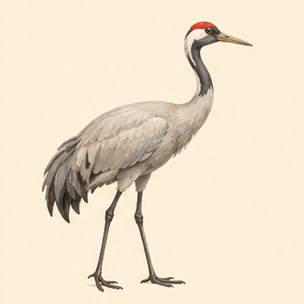
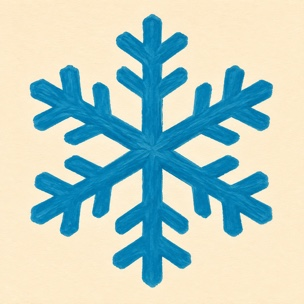
Заменить журавля на снежинку в картинках на Ж

diff --git a/game.js b/game.js
@@ -1,6 +1,6 @@
 "use strict";
 const el = id => document.getElementById(id);
-const words = {"z": ["Заяц", "Зонт", "Замок", "Забор", "Зуб", "Завод", "Коза", "Ваза", "Роза", "Берёза", "Медуза", "Стрекоза", "Изба", "Пазлы", "Глаза"], "zh": ["Жук", "Жаба", "Жираф", "Жилет", "Жёлудь", "Журавль", "Ежи", "Лыжи", "Ножи", "Пижама", "Лужа", "Пружина", "Моржи", "Медвежонок", "Баклажан"]};
+const words = {"z": ["Заяц", "Зонт", "Замок", "Забор", "Зуб", "Завод", "Коза", "Ваза", "Роза", "Берёза", "Медуза", "Стрекоза", "Изба", "Пазлы", "Глаза"], "zh": ["Жук", "Жаба", "Жираф", "Жилет", "Жёлудь", "Снежинка", "Ежи", "Лыжи", "Ножи", "Пижама", "Лужа", "Пружина", "Моржи", "Медвежонок", "Баклажан"]};
 const pictures = Object.fromEntries(Object.entries(words).map(([group,names]) =>
   [group,names.map((name,i)=>({name,group,src:'assets/'+group+(i+1)+'.jpg'}))]));
 const state = {group:"z", count:5, lives:5, score:0,  locked:false};
